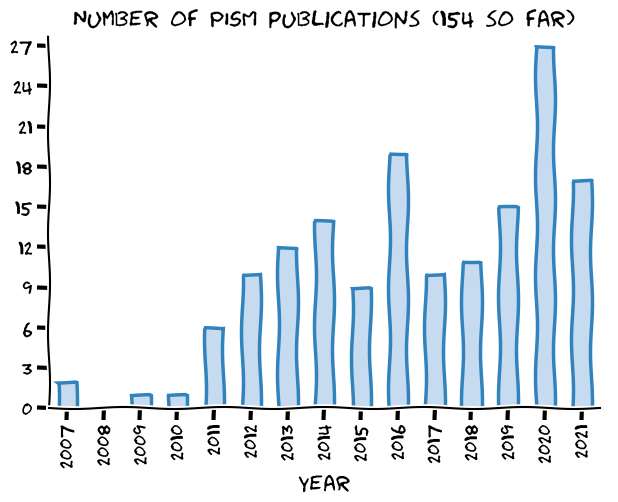
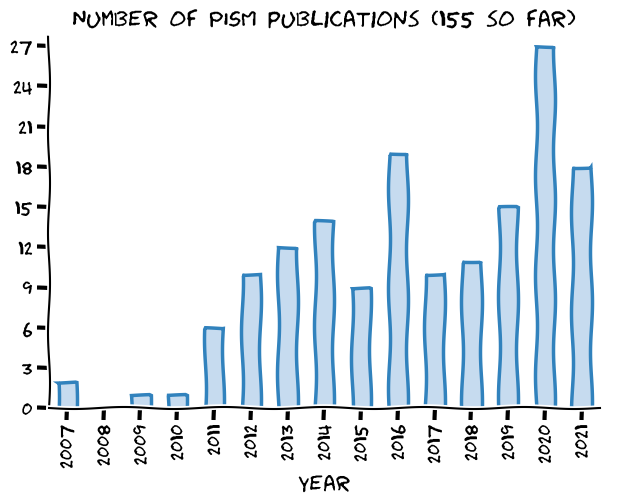
[skip ci] Update the website

diff --git a/publications/index.html b/publications/index.html
@@ -288,6 +288,7 @@ window.onscroll = function() {
 
 <ol>
   <li>D. Barbi, N. Wieters, P. Gierz, M. Andrés-Mart\‘ınez, D. Ural, F. Chegini, S. Khosravi, and L. Cristini. Esm-tools version 5.0: a modular infrastructure for stand-alone and coupled earth system modelling (esm). <em>Geoscientific Model Development</em>, 14(6):4051–4067, 2021. URL: <a href="https://gmd.copernicus.org/articles/14/4051/2021/">https://gmd.copernicus.org/articles/14/4051/2021/</a>, <a href="https://doi.org/10.5194/gmd-14-4051-2021">doi:10.5194/gmd-14-4051-2021</a>.</li>
+  <li>Anaïs Bretones, Kerim H. Nisancioglu, Mari F. Jensen, Ailin Brakstad, and Shuting Yang. Transient increase in arctic deep-water formation and ocean circulation under sea-ice retreat. <em>Journal of Climate</em>, pages 1 – 1, 2021. URL: <a href="https://journals.ametsoc.org/view/journals/clim/aop/JCLI-D-21-0152.1/JCLI-D-21-0152.1.xml">https://journals.ametsoc.org/view/journals/clim/aop/JCLI-D-21-0152.1/JCLI-D-21-0152.1.xml</a>, <a href="https://doi.org/10.1175/JCLI-D-21-0152.1">doi:10.1175/JCLI-D-21-0152.1</a>.</li>
   <li>R. Döscher, M. Acosta, A. Alessandri, P. Anthoni, A. Arneth, T. Arsouze, T. Bergmann, R. Bernadello, S. Bousetta, L.-P. Caron, G. Carver, M. Castrillo, F. Catalano, I. Cvijanovic, P. Davini, E. Dekker, F. J. Doblas-Reyes, D. Docquier, P. Echevarria, U. Fladrich, R. Fuentes-Franco, M. Gröger, J. v. Hardenberg, J. Hieronymus, M. P. Karami, J.-P. Keskinen, T. Koenigk, R. Makkonen, F. Massonnet, M. Ménégoz, P. A. Miller, E. Moreno-Chamarro, L. Nieradzik, T. van Noije, P. Nolan, D. O’Donnell, P. Ollinaho, G. van den Oord, P. Ortega, O. T. Prims, A. Ramos, T. Reerink, C. Rousset, Y. Ruprich-Robert, P. Le Sager, T. Schmith, R. Schrödner, F. Serva, V. Sicardi, M. Sloth Madsen, B. Smith, T. Tian, E. Tourigny, P. Uotila, M. Vancoppenolle, S. Wang, D. Wårlind, U. Willén, K. Wyser, S. Yang, X. Yepes-Arbós, and Q. Zhang. The ec-earth3 earth system model for the climate model intercomparison project 6. <em>Geoscientific Model Development</em>, 2021. URL: <a href="https://gmd.copernicus.org/preprints/gmd-2020-446/">https://gmd.copernicus.org/preprints/gmd-2020-446/</a>, <a href="https://doi.org/10.5194/gmd-2020-446">doi:10.5194/gmd-2020-446</a>.</li>
   <li>T.L. Edwards, S. Nowicki, B. Marzeion, and others. Projected land ice contributions to twenty-first-century sea level rise. <em>Nature</em>, 593:74–82, 2021. <a href="https://doi.org/10.1038/s41586-021-03302-y">doi:10.1038/s41586-021-03302-y</a>.</li>
   <li>N. R. Golledge, P. U. Clark, F. He, A. Dutton, C. S. M. Turney, C. J. Fogwill, T. R. Naish, R. H. Levy, R. M. McKay, D. P. Lowry, N. A. N. Bertler, G. B. Dunbar, and A. E. Carlson. Retreat of the Antarctic ice sheet during the last interglaciation and implications for future change. <em>Geophysical Research Letters</em>, 48(17):e2021GL094513, 2021. URL: <a href="https://agupubs.onlinelibrary.wiley.com/doi/abs/10.1029/2021GL094513">https://agupubs.onlinelibrary.wiley.com/doi/abs/10.1029/2021GL094513</a>, <a href="https://doi.org/10.1029/2021GL094513">doi:10.1029/2021GL094513</a>.</li>

diff --git a/usersmap/org-locations.js b/usersmap/org-locations.js
@@ -106,8 +106,8 @@ var addressPoints = [
   ],
   [
     "University of New South Wales (UNSW) | Sydney, Australia | <a href='http://www.essrc.unsw.edu.au/' target='_blank'>http://www.essrc.unsw.edu.au/</a>",
-    -33.768528,
-    150.9568559523945
+    -33.8548157,
+    151.2164539
   ],
   [
     "University of Northern British Columbia (UNBC) | Prince George, Canada | <a href='https://www2.unbc.ca/' target='_blank'>https://www2.unbc.ca/</a>",

diff --git a/publications/published.md b/publications/published.md
@@ -1,22 +1,23 @@
 ### 2021
 
 1. D\. Barbi, N\. Wieters, P\. Gierz, M\. Andrés\-Mart\\'ınez, D\. Ural, F\. Chegini, S\. Khosravi, and L\. Cristini\. Esm\-tools version 5\.0: a modular infrastructure for stand\-alone and coupled earth system modelling \(esm\)\. *Geoscientific Model Development*, 14\(6\):4051–4067, 2021\. URL: [https://gmd\.copernicus\.org/articles/14/4051/2021/](https://gmd.copernicus.org/articles/14/4051/2021/), [doi:10\.5194/gmd\-14\-4051\-2021](https://doi.org/10.5194/gmd-14-4051-2021)\.   
-2. R\. Döscher, M\. Acosta, A\. Alessandri, P\. Anthoni, A\. Arneth, T\. Arsouze, T\. Bergmann, R\. Bernadello, S\. Bousetta, L\.\-P\. Caron, G\. Carver, M\. Castrillo, F\. Catalano, I\. Cvijanovic, P\. Davini, E\. Dekker, F\. J\. Doblas\-Reyes, D\. Docquier, P\. Echevarria, U\. Fladrich, R\. Fuentes\-Franco, M\. Gröger, J\. v\. Hardenberg, J\. Hieronymus, M\. P\. Karami, J\.\-P\. Keskinen, T\. Koenigk, R\. Makkonen, F\. Massonnet, M\. Ménégoz, P\. A\. Miller, E\. Moreno\-Chamarro, L\. Nieradzik, T\. van Noije, P\. Nolan, D\. O'Donnell, P\. Ollinaho, G\. van den Oord, P\. Ortega, O\. T\. Prims, A\. Ramos, T\. Reerink, C\. Rousset, Y\. Ruprich\-Robert, P\. Le Sager, T\. Schmith, R\. Schrödner, F\. Serva, V\. Sicardi, M\. Sloth Madsen, B\. Smith, T\. Tian, E\. Tourigny, P\. Uotila, M\. Vancoppenolle, S\. Wang, D\. Wårlind, U\. Willén, K\. Wyser, S\. Yang, X\. Yepes\-Arbós, and Q\. Zhang\. The ec\-earth3 earth system model for the climate model intercomparison project 6\. *Geoscientific Model Development*, 2021\. URL: [https://gmd\.copernicus\.org/preprints/gmd\-2020\-446/](https://gmd.copernicus.org/preprints/gmd-2020-446/), [doi:10\.5194/gmd\-2020\-446](https://doi.org/10.5194/gmd-2020-446)\.   
-3. T\.L\. Edwards, S\. Nowicki, B\. Marzeion, and others\. Projected land ice contributions to twenty\-first\-century sea level rise\. *Nature*, 593:74–82, 2021\. [doi:10\.1038/s41586\-021\-03302\-y](https://doi.org/10.1038/s41586-021-03302-y)\.   
-4. N\. R\. Golledge, P\. U\. Clark, F\. He, A\. Dutton, C\. S\. M\. Turney, C\. J\. Fogwill, T\. R\. Naish, R\. H\. Levy, R\. M\. McKay, D\. P\. Lowry, N\. A\. N\. Bertler, G\. B\. Dunbar, and A\. E\. Carlson\. Retreat of the Antarctic ice sheet during the last interglaciation and implications for future change\. *Geophysical Research Letters*, 48\(17\):e2021GL094513, 2021\. URL: [https://agupubs\.onlinelibrary\.wiley\.com/doi/abs/10\.1029/2021GL094513](https://agupubs.onlinelibrary.wiley.com/doi/abs/10.1029/2021GL094513), [doi:10\.1029/2021GL094513](https://doi.org/10.1029/2021GL094513)\.   
-5. W\. Ji, A\. Robel, E\. Tziperman, and J\. Yang\. Laurentide ice saddle mergers drive rapid sea level drops during glaciations\. *Geophysical Research Letters*, 48\(14\):e2021GL094263, 2021\. URL: [https://agupubs\.onlinelibrary\.wiley\.com/doi/abs/10\.1029/2021GL094263](https://agupubs.onlinelibrary.wiley.com/doi/abs/10.1029/2021GL094263), [doi:10\.1029/2021GL094263](https://doi.org/10.1029/2021GL094263)\.   
-6. I\. Koldtoft, A\. Grinsted, B\. M\. Vinther, and C\. S\. Hvidberg\. Ice thickness and volume of the renland ice cap, east greenland\. *Journal of Glaciology*, pages 1–13, 2021\. [doi:10\.1017/jog\.2021\.11](https://doi.org/10.1017/jog.2021.11)\.   
-7. M\. Kreuzer, R\. Reese, W\. N\. Huiskamp, S\. Petri, T\. Albrecht, G\. Feulner, and R\. Winkelmann\. Coupling framework \(1\.0\) for the pism \(1\.1\.4\) ice sheet model and the mom5 \(5\.1\.0\) ocean model via the pico ice shelf cavity model in an antarctic domain\. *Geoscientific Model Development*, 14\(6\):3697–3714, 2021\. URL: [https://gmd\.copernicus\.org/articles/14/3697/2021/](https://gmd.copernicus.org/articles/14/3697/2021/), [doi:10\.5194/gmd\-14\-3697\-2021](https://doi.org/10.5194/gmd-14-3697-2021)\.   
-8. J\. Lai and A\. M\. Anders\. Climatic controls on mountain glacier basal thermal regimes dictate spatial patterns of glacial erosion\. *Earth Surface Dynamics*, 9\(4\):845–859, 2021\. URL: [https://esurf\.copernicus\.org/articles/9/845/2021/](https://esurf.copernicus.org/articles/9/845/2021/), [doi:10\.5194/esurf\-9\-845\-2021](https://doi.org/10.5194/esurf-9-845-2021)\.   
-9. D\. P\. Lowry, M\. Krapp, N\. R\. Golledge, and A\. Alevropoulos\-Borrill\. The influence of emissions scenarios on future Antarctic ice loss is unlikely to emerge this century\. *Communications Earth &amp; Environment*, 2021\. URL: [https://www\.nature\.com/articles/s43247\-021\-00289\-2](https://www.nature.com/articles/s43247-021-00289-2), [doi:10\.1038/s43247\-021\-00289\-2](https://doi.org/10.1038/s43247-021-00289-2)\.   
-10. L\. Niu, G\. Lohmann, P\. Gierz, E\. J\. Gowan, and G\. Knorr\. Coupled climate\-ice sheet modelling of MIS\-13 reveals a sensitive Cordilleran Ice Sheet\. *Global and Planetary Change*, pages 103474, 2021\. URL: [https://www\.sciencedirect\.com/science/article/pii/S092181812100059X](https://www.sciencedirect.com/science/article/pii/S092181812100059X), [doi:10\.1016/j\.gloplacha\.2021\.103474](https://doi.org/10.1016/j.gloplacha.2021.103474)\.   
-11. S\. J\. Phipps, J\. L\. Roberts, and M\. A\. King\. An iterative process for efficient optimisation of parameters in geoscientific models: a demonstration using the parallel ice sheet model \(pism\) version 0\.7\.3\. *Geoscientific Model Development*, 14\(8\):5107–5124, 2021\. URL: [https://gmd\.copernicus\.org/articles/14/5107/2021/](https://gmd.copernicus.org/articles/14/5107/2021/), [doi:10\.5194/gmd\-14\-5107\-2021](https://doi.org/10.5194/gmd-14-5107-2021)\.   
-12. T\. Schlemm and A\. Levermann\. A simple parametrization of mélange buttressing for calving glaciers\. *The Cryosphere*, 15\(2\):531–545, 2021\. URL: [https://tc\.copernicus\.org/articles/15/531/2021/](https://tc.copernicus.org/articles/15/531/2021/), [doi:10\.5194/tc\-15\-531\-2021](https://doi.org/10.5194/tc-15-531-2021)\.   
-13. J\. Sutter, H\. Fischer, and O\. Eisen\. Investigating the internal structure of the Antarctic ice sheet: the utility of isochrones for spatiotemporal ice\-sheet model calibration\. *The Cryosphere*, 15\(8\):3839–3860, 2021\. URL: [https://tc\.copernicus\.org/articles/15/3839/2021/](https://tc.copernicus.org/articles/15/3839/2021/), [doi:10\.5194/tc\-15\-3839\-2021](https://doi.org/10.5194/tc-15-3839-2021)\.   
-14. Michael E\. Weber, Nicholas R\. Golledge, Chris J\. Fogwill, Chris S\. M\. Turney, and Zoë A\. Thomas\. Decadal\-scale onset and termination of antarctic ice\-mass loss during the last deglaciation\. *Nature Communications*, nov 2021\. [doi:10\.1038/s41467\-021\-27053\-6](https://doi.org/10.1038/s41467-021-27053-6)\.   
-15. Q\. Yan, L\. A\. Owen, Z\. Zhang, H\. Wang, T\. Wei, N\. Jiang, and R\. Zhang\. Divergent evolution of glaciation across high\-mountain asia during the last four glacial\-interglacial cycles\. *Geophysical Research Letters*, n/a\(n/a\):e2021GL092411, 2021\. URL: [https://agupubs\.onlinelibrary\.wiley\.com/doi/abs/10\.1029/2021GL092411](https://agupubs.onlinelibrary.wiley.com/doi/abs/10.1029/2021GL092411), [doi:10\.1029/2021GL092411](https://doi.org/10.1029/2021GL092411)\.   
-16. M\. Zeitz, R\. Reese, J\. Beckmann, U\. Krebs\-Kanzow, and R\. Winkelmann\. Impact of the melt\-albedo feedback on the future evolution of the Greenland ice sheet with PISM\-dEBM\-simple\. *The Cryosphere*, 2021\. URL: [https://tc\.copernicus\.org/preprints/tc\-2021\-91/](https://tc.copernicus.org/preprints/tc-2021-91/), [doi:10\.5194/tc\-2021\-91](https://doi.org/10.5194/tc-2021-91)\.   
-17. Manja ŽEBRE, M\. Akif SARIKAYA, Uroš STEPIŠNIK, Renato R\. COLUCCI, Cengiz YILDIRIM, Attila ÇİNER, Adem CANDAŞ, Igor VLAHOVIĆ, Bruno TOMLJENOVIĆ, Bojan MATOŠ, and Klaus M\. WILCKEN\. An early glacial maximum during the last glacial cycle on the northern velebit mt\. \(croatia\)\. *Geomorphology*, 2021\. URL: [https://www\.sciencedirect\.com/science/article/pii/S0169555X21003263](https://www.sciencedirect.com/science/article/pii/S0169555X21003263), [doi:10\.1016/j\.geomorph\.2021\.107918](https://doi.org/10.1016/j.geomorph.2021.107918)\.   
+2. Anaïs Bretones, Kerim H\. Nisancioglu, Mari F\. Jensen, Ailin Brakstad, and Shuting Yang\. Transient increase in arctic deep\-water formation and ocean circulation under sea\-ice retreat\. *Journal of Climate*, pages 1 &ndash; 1, 2021\. URL: [https://journals\.ametsoc\.org/view/journals/clim/aop/JCLI\-D\-21\-0152\.1/JCLI\-D\-21\-0152\.1\.xml](https://journals.ametsoc.org/view/journals/clim/aop/JCLI-D-21-0152.1/JCLI-D-21-0152.1.xml), [doi:10\.1175/JCLI\-D\-21\-0152\.1](https://doi.org/10.1175/JCLI-D-21-0152.1)\.   
+3. R\. Döscher, M\. Acosta, A\. Alessandri, P\. Anthoni, A\. Arneth, T\. Arsouze, T\. Bergmann, R\. Bernadello, S\. Bousetta, L\.\-P\. Caron, G\. Carver, M\. Castrillo, F\. Catalano, I\. Cvijanovic, P\. Davini, E\. Dekker, F\. J\. Doblas\-Reyes, D\. Docquier, P\. Echevarria, U\. Fladrich, R\. Fuentes\-Franco, M\. Gröger, J\. v\. Hardenberg, J\. Hieronymus, M\. P\. Karami, J\.\-P\. Keskinen, T\. Koenigk, R\. Makkonen, F\. Massonnet, M\. Ménégoz, P\. A\. Miller, E\. Moreno\-Chamarro, L\. Nieradzik, T\. van Noije, P\. Nolan, D\. O'Donnell, P\. Ollinaho, G\. van den Oord, P\. Ortega, O\. T\. Prims, A\. Ramos, T\. Reerink, C\. Rousset, Y\. Ruprich\-Robert, P\. Le Sager, T\. Schmith, R\. Schrödner, F\. Serva, V\. Sicardi, M\. Sloth Madsen, B\. Smith, T\. Tian, E\. Tourigny, P\. Uotila, M\. Vancoppenolle, S\. Wang, D\. Wårlind, U\. Willén, K\. Wyser, S\. Yang, X\. Yepes\-Arbós, and Q\. Zhang\. The ec\-earth3 earth system model for the climate model intercomparison project 6\. *Geoscientific Model Development*, 2021\. URL: [https://gmd\.copernicus\.org/preprints/gmd\-2020\-446/](https://gmd.copernicus.org/preprints/gmd-2020-446/), [doi:10\.5194/gmd\-2020\-446](https://doi.org/10.5194/gmd-2020-446)\.   
+4. T\.L\. Edwards, S\. Nowicki, B\. Marzeion, and others\. Projected land ice contributions to twenty\-first\-century sea level rise\. *Nature*, 593:74–82, 2021\. [doi:10\.1038/s41586\-021\-03302\-y](https://doi.org/10.1038/s41586-021-03302-y)\.   
+5. N\. R\. Golledge, P\. U\. Clark, F\. He, A\. Dutton, C\. S\. M\. Turney, C\. J\. Fogwill, T\. R\. Naish, R\. H\. Levy, R\. M\. McKay, D\. P\. Lowry, N\. A\. N\. Bertler, G\. B\. Dunbar, and A\. E\. Carlson\. Retreat of the Antarctic ice sheet during the last interglaciation and implications for future change\. *Geophysical Research Letters*, 48\(17\):e2021GL094513, 2021\. URL: [https://agupubs\.onlinelibrary\.wiley\.com/doi/abs/10\.1029/2021GL094513](https://agupubs.onlinelibrary.wiley.com/doi/abs/10.1029/2021GL094513), [doi:10\.1029/2021GL094513](https://doi.org/10.1029/2021GL094513)\.   
+6. W\. Ji, A\. Robel, E\. Tziperman, and J\. Yang\. Laurentide ice saddle mergers drive rapid sea level drops during glaciations\. *Geophysical Research Letters*, 48\(14\):e2021GL094263, 2021\. URL: [https://agupubs\.onlinelibrary\.wiley\.com/doi/abs/10\.1029/2021GL094263](https://agupubs.onlinelibrary.wiley.com/doi/abs/10.1029/2021GL094263), [doi:10\.1029/2021GL094263](https://doi.org/10.1029/2021GL094263)\.   
+7. I\. Koldtoft, A\. Grinsted, B\. M\. Vinther, and C\. S\. Hvidberg\. Ice thickness and volume of the renland ice cap, east greenland\. *Journal of Glaciology*, pages 1–13, 2021\. [doi:10\.1017/jog\.2021\.11](https://doi.org/10.1017/jog.2021.11)\.   
+8. M\. Kreuzer, R\. Reese, W\. N\. Huiskamp, S\. Petri, T\. Albrecht, G\. Feulner, and R\. Winkelmann\. Coupling framework \(1\.0\) for the pism \(1\.1\.4\) ice sheet model and the mom5 \(5\.1\.0\) ocean model via the pico ice shelf cavity model in an antarctic domain\. *Geoscientific Model Development*, 14\(6\):3697–3714, 2021\. URL: [https://gmd\.copernicus\.org/articles/14/3697/2021/](https://gmd.copernicus.org/articles/14/3697/2021/), [doi:10\.5194/gmd\-14\-3697\-2021](https://doi.org/10.5194/gmd-14-3697-2021)\.   
+9. J\. Lai and A\. M\. Anders\. Climatic controls on mountain glacier basal thermal regimes dictate spatial patterns of glacial erosion\. *Earth Surface Dynamics*, 9\(4\):845–859, 2021\. URL: [https://esurf\.copernicus\.org/articles/9/845/2021/](https://esurf.copernicus.org/articles/9/845/2021/), [doi:10\.5194/esurf\-9\-845\-2021](https://doi.org/10.5194/esurf-9-845-2021)\.   
+10. D\. P\. Lowry, M\. Krapp, N\. R\. Golledge, and A\. Alevropoulos\-Borrill\. The influence of emissions scenarios on future Antarctic ice loss is unlikely to emerge this century\. *Communications Earth &amp; Environment*, 2021\. URL: [https://www\.nature\.com/articles/s43247\-021\-00289\-2](https://www.nature.com/articles/s43247-021-00289-2), [doi:10\.1038/s43247\-021\-00289\-2](https://doi.org/10.1038/s43247-021-00289-2)\.   
+11. L\. Niu, G\. Lohmann, P\. Gierz, E\. J\. Gowan, and G\. Knorr\. Coupled climate\-ice sheet modelling of MIS\-13 reveals a sensitive Cordilleran Ice Sheet\. *Global and Planetary Change*, pages 103474, 2021\. URL: [https://www\.sciencedirect\.com/science/article/pii/S092181812100059X](https://www.sciencedirect.com/science/article/pii/S092181812100059X), [doi:10\.1016/j\.gloplacha\.2021\.103474](https://doi.org/10.1016/j.gloplacha.2021.103474)\.   
+12. S\. J\. Phipps, J\. L\. Roberts, and M\. A\. King\. An iterative process for efficient optimisation of parameters in geoscientific models: a demonstration using the parallel ice sheet model \(pism\) version 0\.7\.3\. *Geoscientific Model Development*, 14\(8\):5107–5124, 2021\. URL: [https://gmd\.copernicus\.org/articles/14/5107/2021/](https://gmd.copernicus.org/articles/14/5107/2021/), [doi:10\.5194/gmd\-14\-5107\-2021](https://doi.org/10.5194/gmd-14-5107-2021)\.   
+13. T\. Schlemm and A\. Levermann\. A simple parametrization of mélange buttressing for calving glaciers\. *The Cryosphere*, 15\(2\):531–545, 2021\. URL: [https://tc\.copernicus\.org/articles/15/531/2021/](https://tc.copernicus.org/articles/15/531/2021/), [doi:10\.5194/tc\-15\-531\-2021](https://doi.org/10.5194/tc-15-531-2021)\.   
+14. J\. Sutter, H\. Fischer, and O\. Eisen\. Investigating the internal structure of the Antarctic ice sheet: the utility of isochrones for spatiotemporal ice\-sheet model calibration\. *The Cryosphere*, 15\(8\):3839–3860, 2021\. URL: [https://tc\.copernicus\.org/articles/15/3839/2021/](https://tc.copernicus.org/articles/15/3839/2021/), [doi:10\.5194/tc\-15\-3839\-2021](https://doi.org/10.5194/tc-15-3839-2021)\.   
+15. Michael E\. Weber, Nicholas R\. Golledge, Chris J\. Fogwill, Chris S\. M\. Turney, and Zoë A\. Thomas\. Decadal\-scale onset and termination of antarctic ice\-mass loss during the last deglaciation\. *Nature Communications*, nov 2021\. [doi:10\.1038/s41467\-021\-27053\-6](https://doi.org/10.1038/s41467-021-27053-6)\.   
+16. Q\. Yan, L\. A\. Owen, Z\. Zhang, H\. Wang, T\. Wei, N\. Jiang, and R\. Zhang\. Divergent evolution of glaciation across high\-mountain asia during the last four glacial\-interglacial cycles\. *Geophysical Research Letters*, n/a\(n/a\):e2021GL092411, 2021\. URL: [https://agupubs\.onlinelibrary\.wiley\.com/doi/abs/10\.1029/2021GL092411](https://agupubs.onlinelibrary.wiley.com/doi/abs/10.1029/2021GL092411), [doi:10\.1029/2021GL092411](https://doi.org/10.1029/2021GL092411)\.   
+17. M\. Zeitz, R\. Reese, J\. Beckmann, U\. Krebs\-Kanzow, and R\. Winkelmann\. Impact of the melt\-albedo feedback on the future evolution of the Greenland ice sheet with PISM\-dEBM\-simple\. *The Cryosphere*, 2021\. URL: [https://tc\.copernicus\.org/preprints/tc\-2021\-91/](https://tc.copernicus.org/preprints/tc-2021-91/), [doi:10\.5194/tc\-2021\-91](https://doi.org/10.5194/tc-2021-91)\.   
+18. Manja ŽEBRE, M\. Akif SARIKAYA, Uroš STEPIŠNIK, Renato R\. COLUCCI, Cengiz YILDIRIM, Attila ÇİNER, Adem CANDAŞ, Igor VLAHOVIĆ, Bruno TOMLJENOVIĆ, Bojan MATOŠ, and Klaus M\. WILCKEN\. An early glacial maximum during the last glacial cycle on the northern velebit mt\. \(croatia\)\. *Geomorphology*, 2021\. URL: [https://www\.sciencedirect\.com/science/article/pii/S0169555X21003263](https://www.sciencedirect.com/science/article/pii/S0169555X21003263), [doi:10\.1016/j\.geomorph\.2021\.107918](https://doi.org/10.1016/j.geomorph.2021.107918)\.   
 
 ### 2020
 
